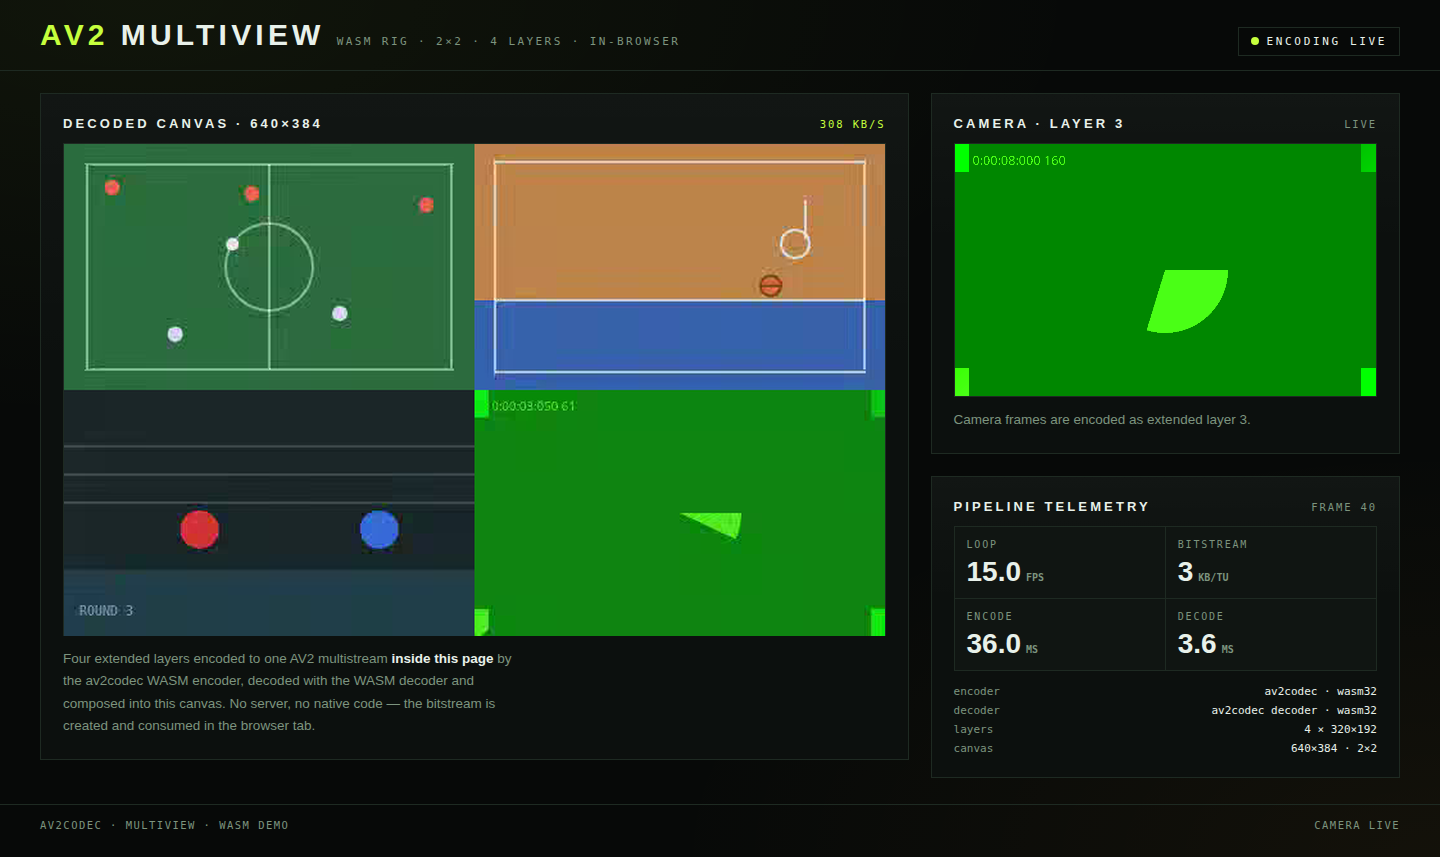
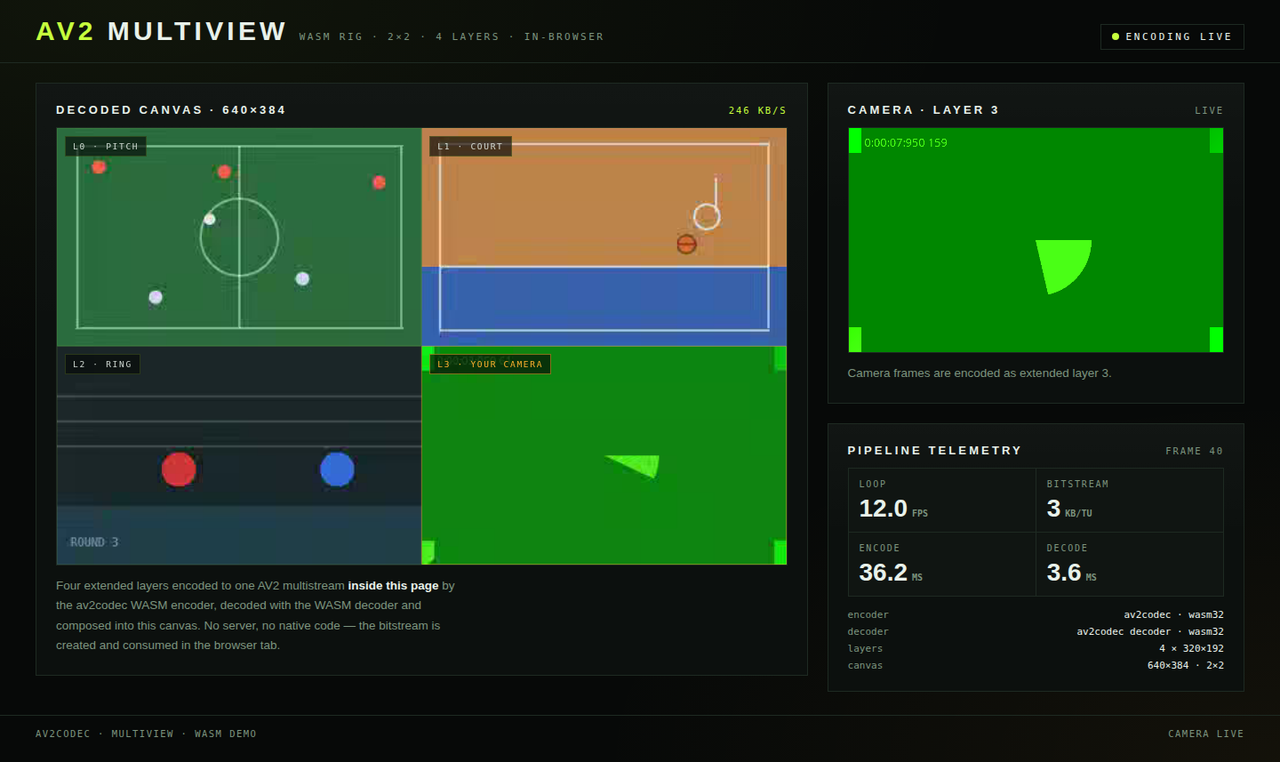
fix(demo): show the camera layer in the composed WASM canvas
The L3 overlay cell reused the "camera" class of the video panel, so the
panel's dark radial-gradient background and aspect-ratio covered the
bottom-right quadrant of the decoded canvas. Rename the overlay cell to
"layer-camera" so the decoded camera layer is visible, and refresh the
hosted copy and documentation image.

diff --git a/web/multiview_wasm/index.html b/web/multiview_wasm/index.html
@@ -49,8 +49,8 @@
   .layers { position: absolute; inset: 0; display: grid; grid-template-columns: 1fr 1fr; grid-template-rows: 1fr 1fr; pointer-events: none; }
   .layers span { position: relative; border: 1px solid rgba(198,255,61,.08); }
   .layers b { position: absolute; left: 8px; top: 8px; padding: 5px 8px; font-family: var(--mono); font-size: 9.5px; font-weight: 400; letter-spacing: .18em; text-transform: uppercase; color: rgba(232,241,234,.86); background: rgba(6,9,7,.66); border: 1px solid rgba(198,255,61,.16); }
-  .layers span.camera { border-color: rgba(255,176,46,.4); }
-  .layers span.camera b { color: var(--amber); border-color: rgba(255,176,46,.5); }
+  .layers span.layer-camera { border-color: rgba(255,176,46,.4); }
+  .layers span.layer-camera b { color: var(--amber); border-color: rgba(255,176,46,.5); }
   .caption { margin: 12px 0 0; font-size: 13.5px; line-height: 1.65; color: var(--muted); max-width: 62ch; }
   .caption strong { color: var(--ink); font-weight: 600; }
   .rail { display: grid; gap: clamp(14px, 1.6vw, 22px); }
@@ -115,7 +115,7 @@
           <span><b>L0 · pitch</b></span>
           <span><b>L1 · court</b></span>
           <span><b>L2 · ring</b></span>
-          <span class="camera"><b>L3 · your camera</b></span>
+          <span class="layer-camera"><b>L3 · your camera</b></span>
         </div>
       </div>
       <p class="caption">
